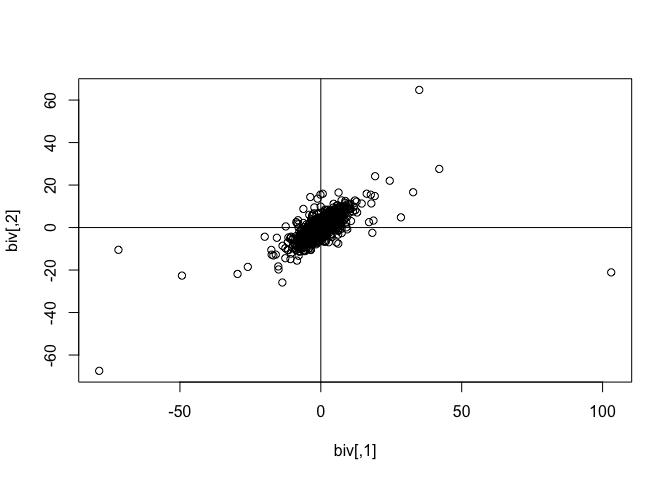
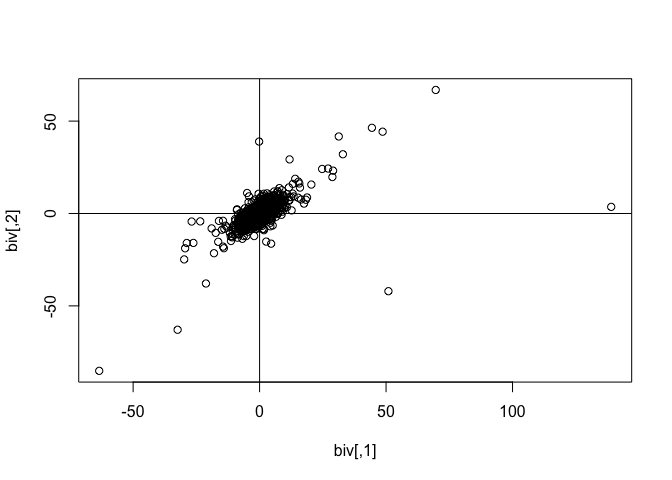
suppress messages in readme

diff --git a/README.md b/README.md
@@ -1,12 +1,18 @@
 
 <!-- README.md is generated from README.Rmd. Please edit that file -->
 
-# mvpd
+# mvpd: An R Package for Multivariate Product Distributions
+
+-   `[dpr]mvss`: mutivariate subgaussian stable distributions
 
 <!-- badges: start -->
 <!-- badges: end -->
 
-The goal of mvpd is to …
+The goal of `mvpd` is to use product distribution theory to allow the
+numerical calculations of specific scale mixtures of the multivariate
+normal distribution. The multivariate subgaussian stable distribution is
+the product of the square root of a positive stable distribution and the
+multivariate normal distribution (see Nolan (2013)).
 
 ## Installation
 
@@ -25,21 +31,16 @@ distribution with alpha=1.71 and plot.
 
 ``` r
 library(mvpd)
-#> Loading required package: mvtnorm
-#> Loading required package: stabledist
-#> Loading required package: libstableR
-#> Loading required package: cubature
-#> Loading required package: matrixStats
 ## basic example code
 biv <- rmvss(n=1e3, alpha=1.71, Q=matrix(c(10,7.5,7.5,10),2))
 head(biv)
-#>            [,1]      [,2]
-#> [1,]  2.8007853  1.551301
-#> [2,]  7.3093794  6.471486
-#> [3,] -0.8767313  1.430939
-#> [4,] -2.6736874 -4.013020
-#> [5,]  3.1114680  4.558173
-#> [6,]  8.4333645  5.855828
+#>            [,1]       [,2]
+#> [1,] -3.5516219 -8.3073533
+#> [2,] -0.0552984  0.7180206
+#> [3,] -4.2691520 -0.2179971
+#> [4,] -2.6043523 -7.8604687
+#> [5,] -3.0880095 -6.1439921
+#> [6,]  1.9981770  2.6650392
 plot(biv); abline(h=0,v=0)
 ```
 
